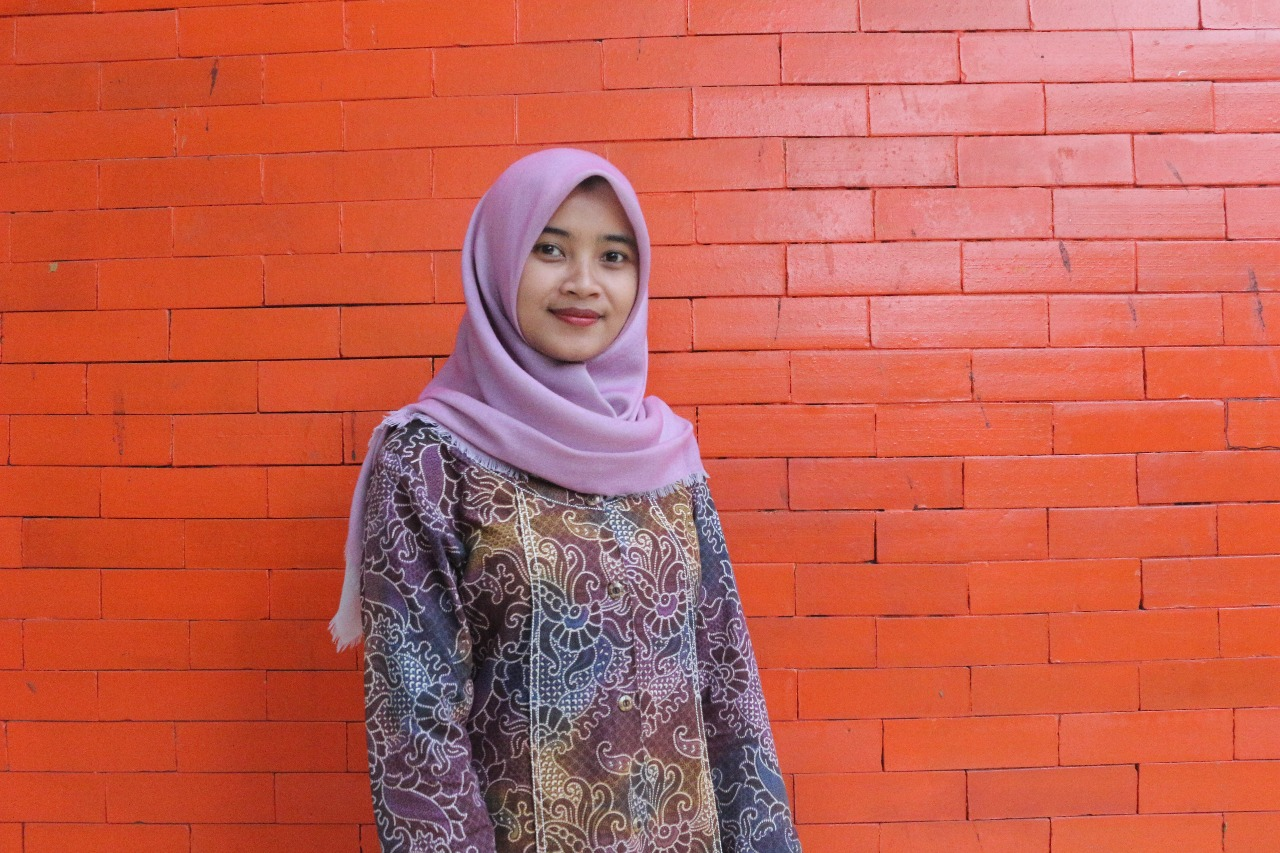
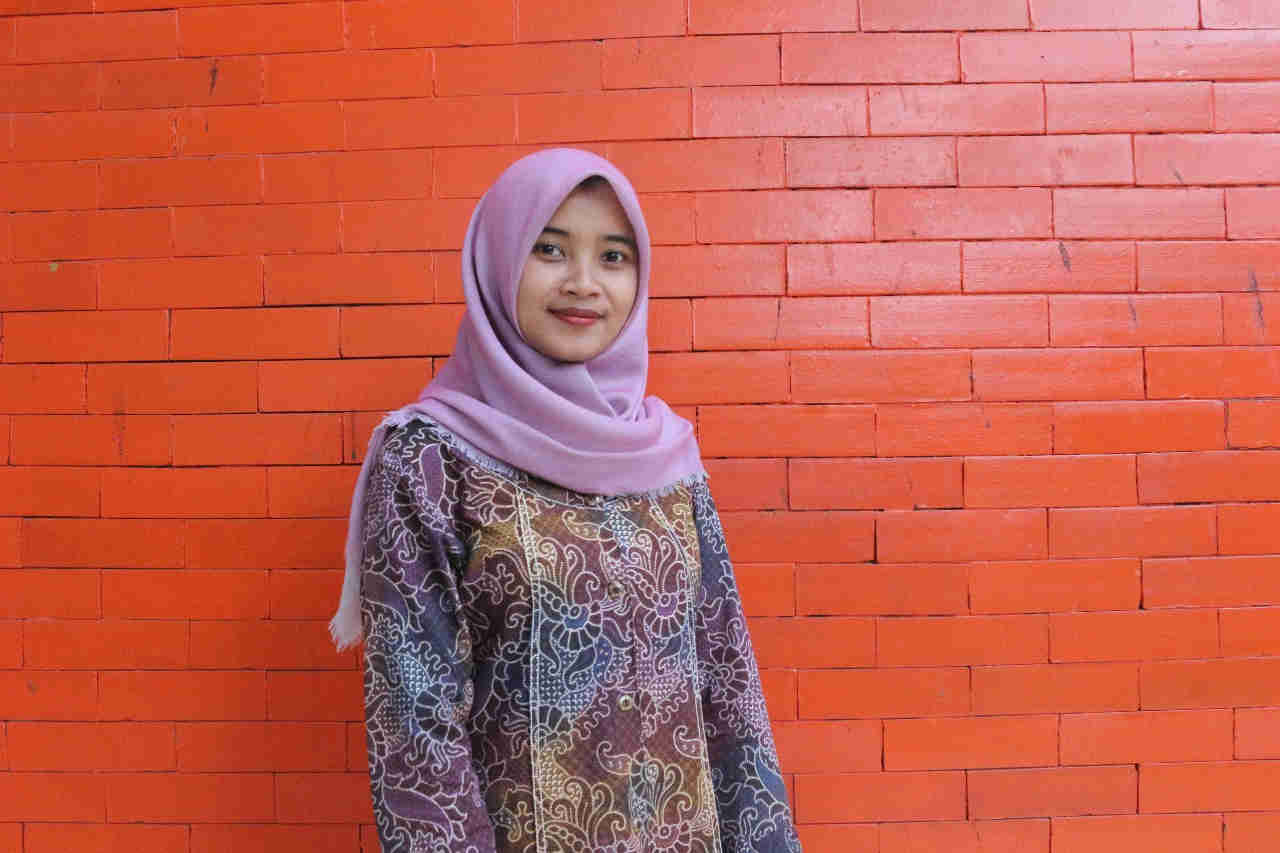
Fix image

diff --git a/raw/public/assets/baked/landingpage/css/stylish-portfolio.css b/raw/public/assets/baked/landingpage/css/stylish-portfolio.css
@@ -92,7 +92,7 @@ h6 {
     height: auto;
     padding-top: 8rem;
     padding-bottom: 8rem;
-    background: linear-gradient(90deg, rgba(255, 255, 255, 0.1) 0%, rgba(255, 255, 255, 0.1) 100%), url("../img/web.png");
+    background: linear-gradient(90deg, rgba(255, 255, 255, 0.1) 0%, rgba(255, 255, 255, 0.1) 100%), url("../img/web.jpeg");
     background-position: center center;
     background-repeat: no-repeat;
     background-size: cover;
